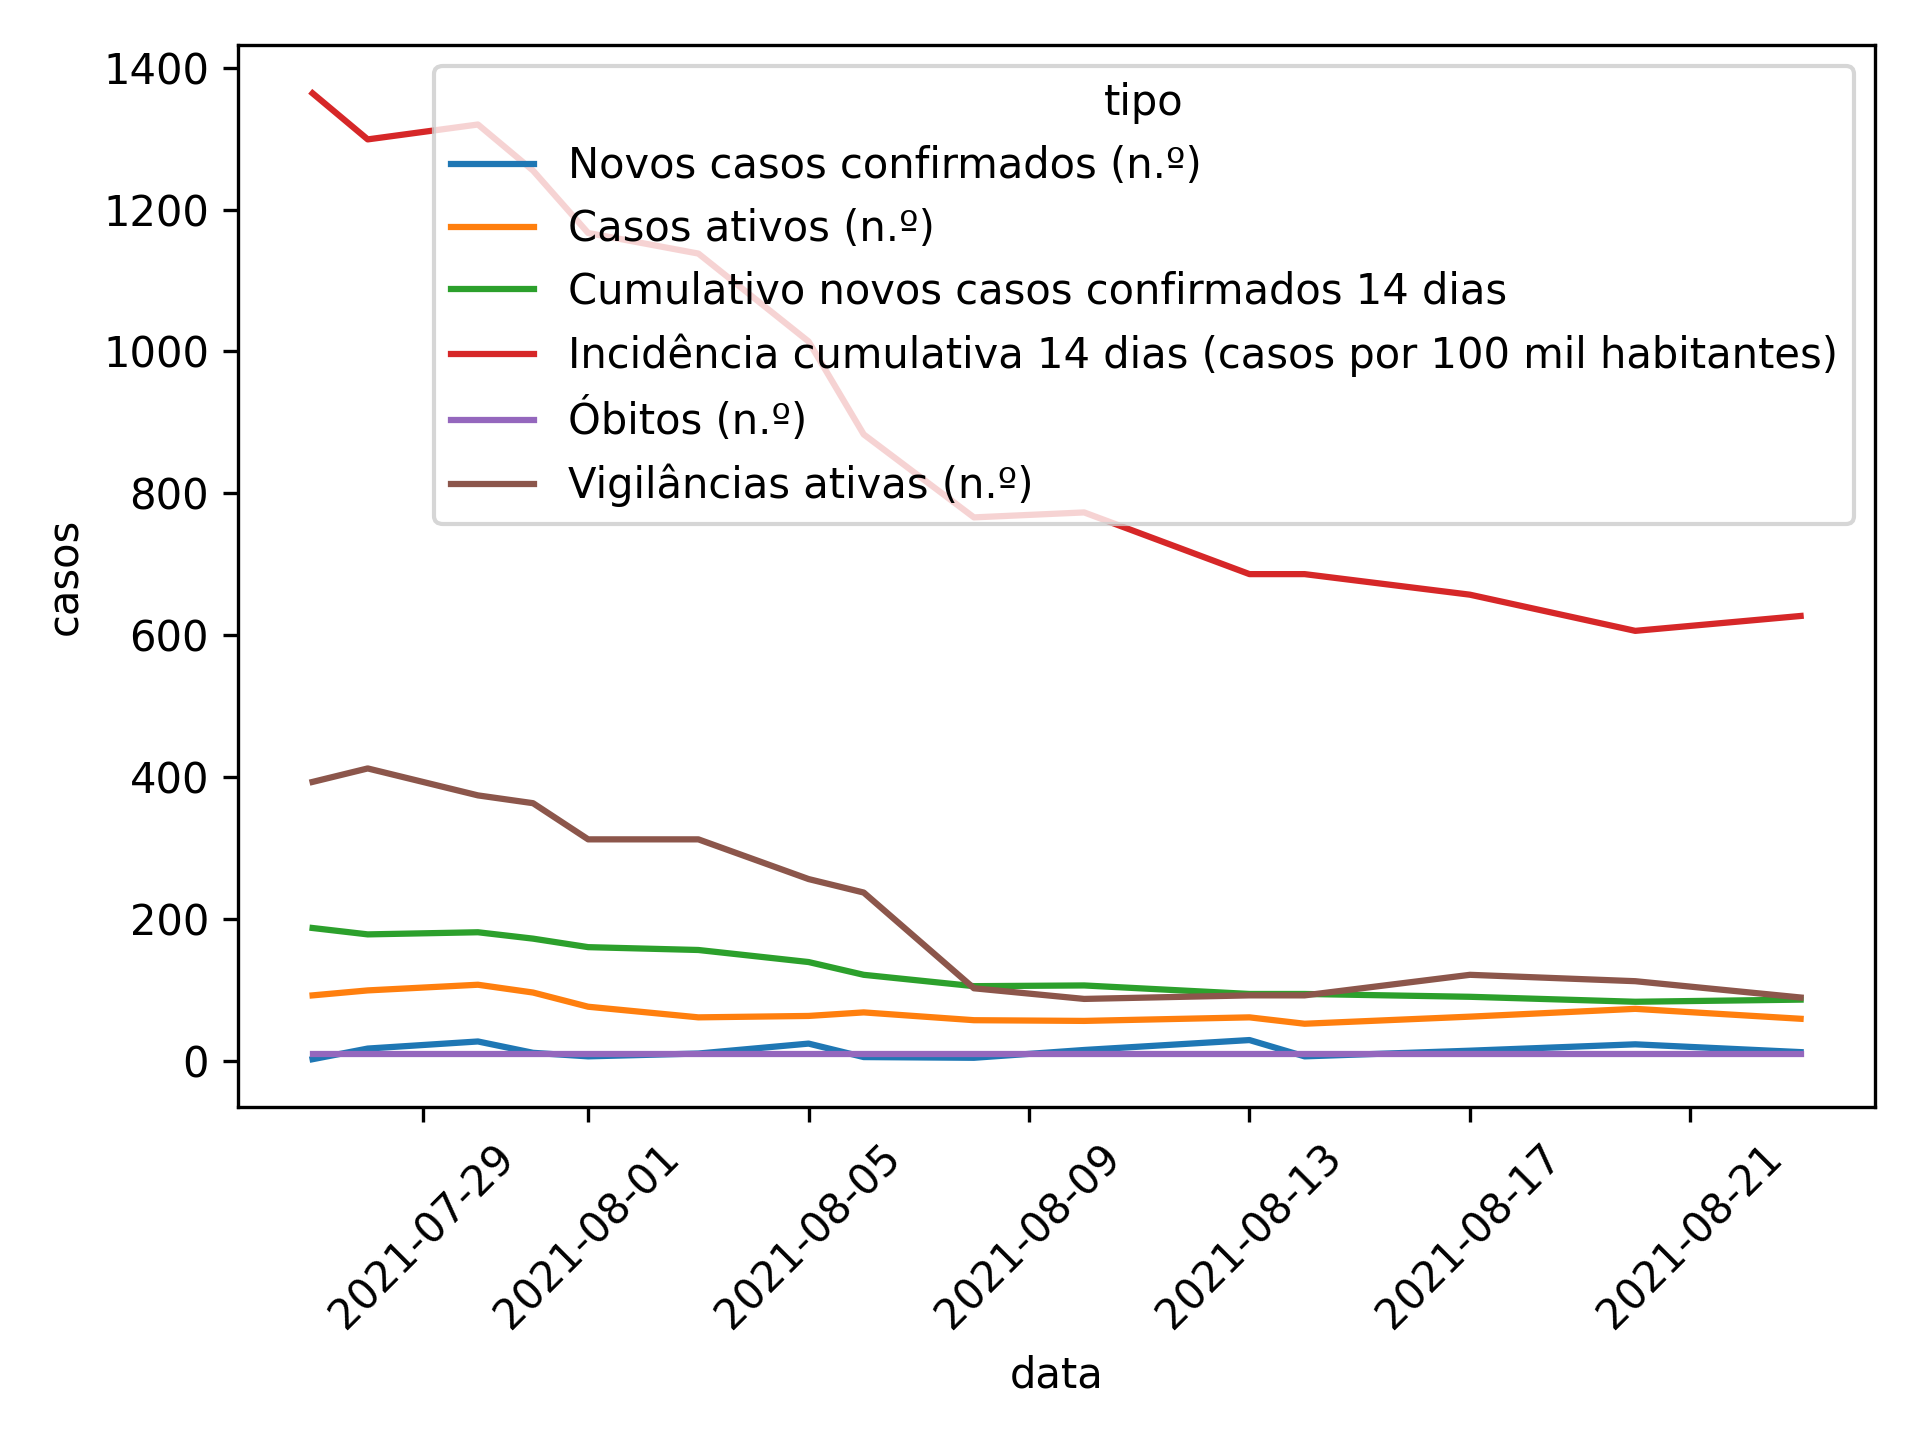
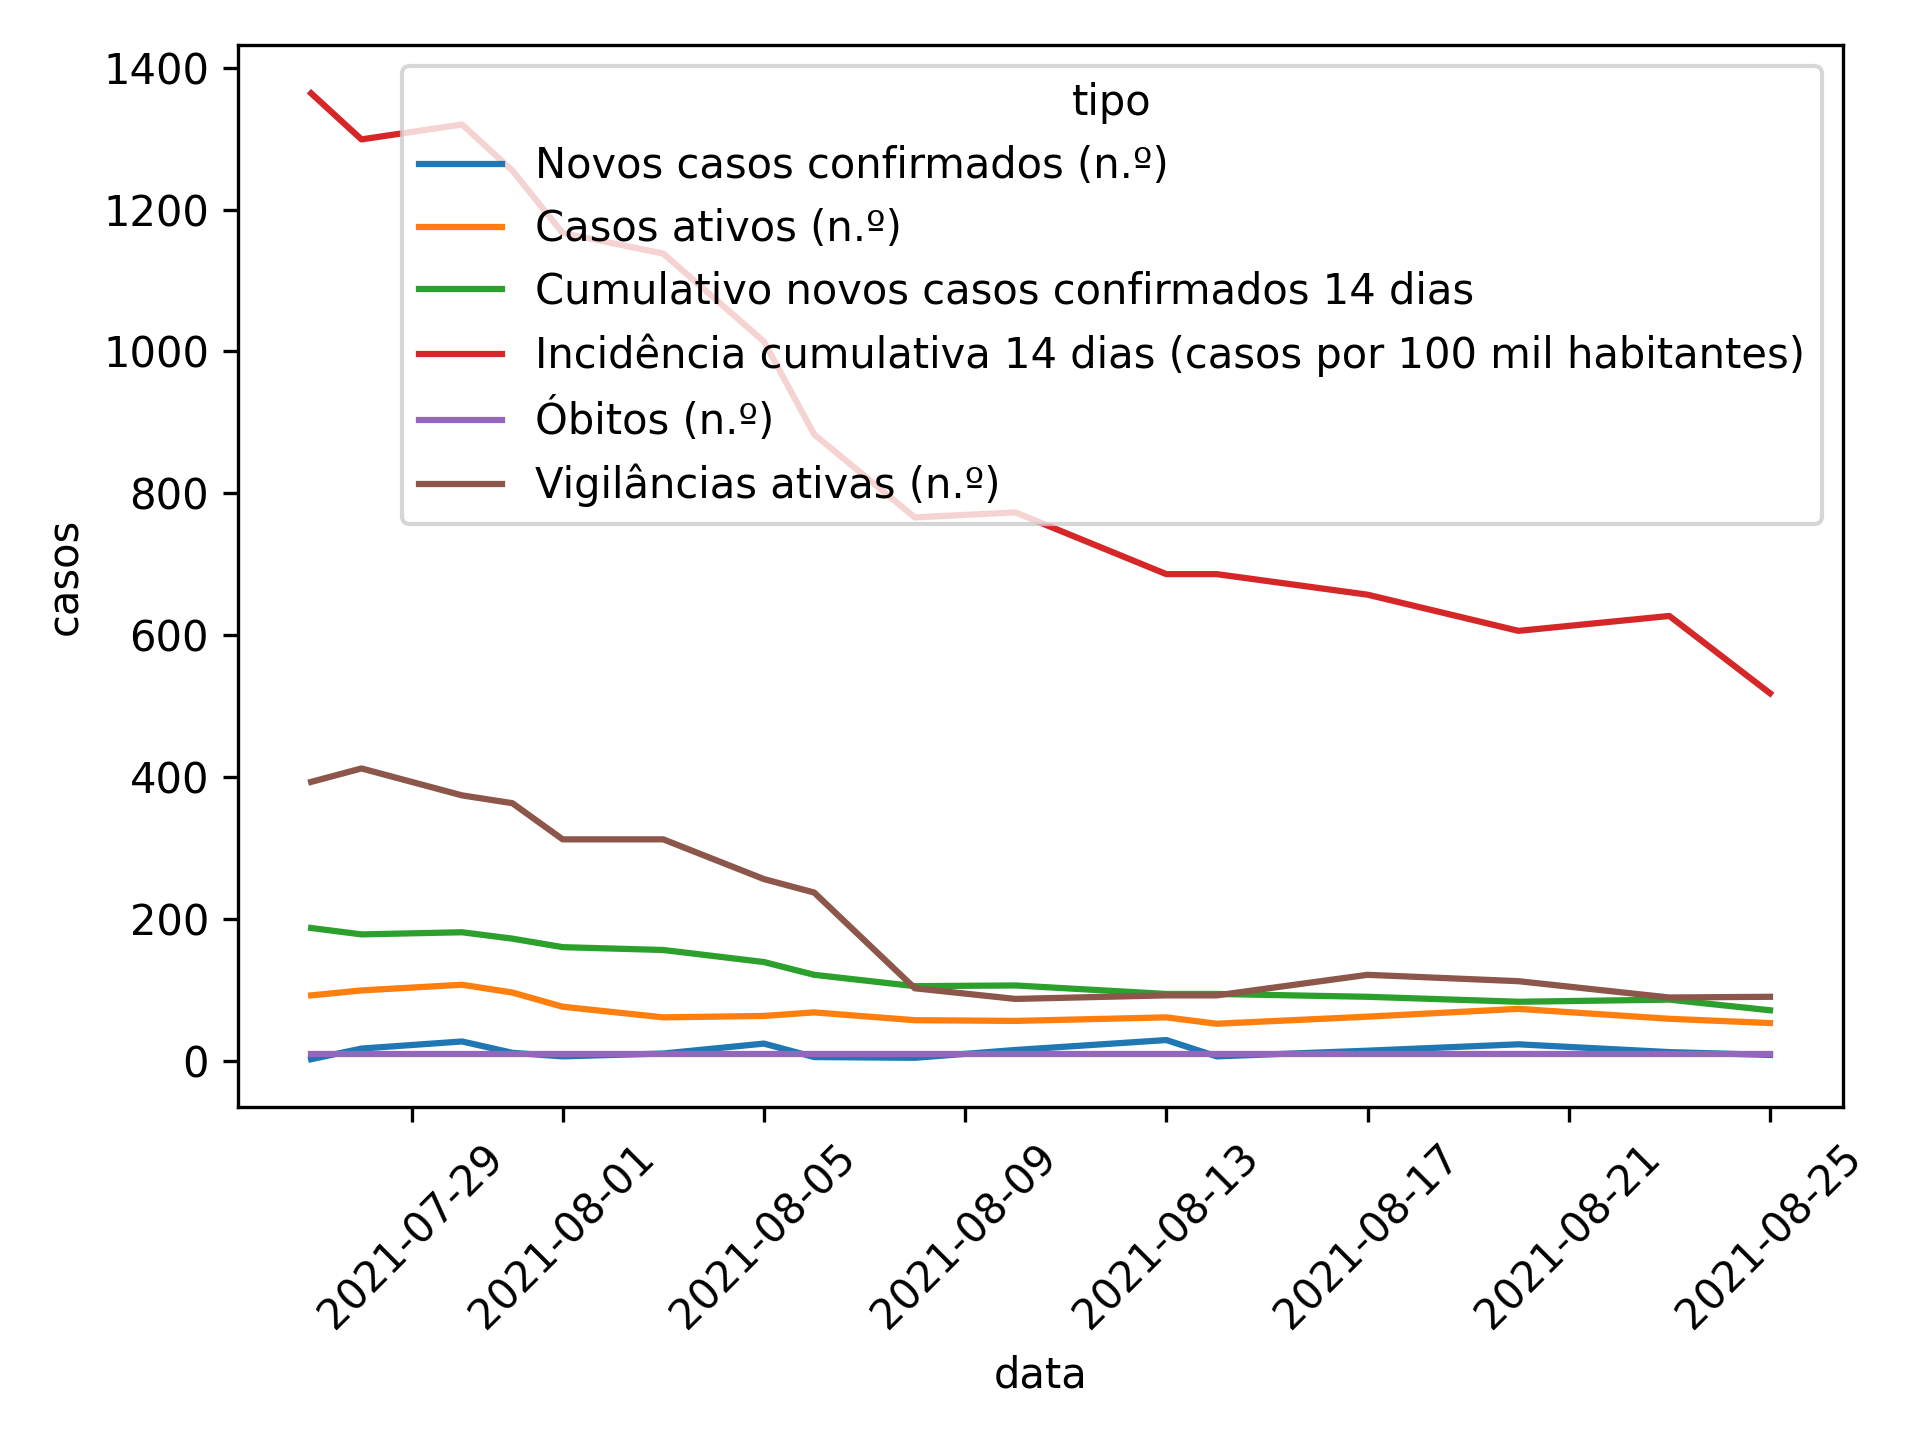
Apply automatic changes

diff --git a/README.md b/README.md
@@ -6,7 +6,6 @@
 
 | data       |   Novos casos confirmados (n.º) |   Casos ativos (n.º) |   Cumulativo novos casos confirmados 14 dias |   Incidência cumulativa 14 dias (casos por 100 mil habitantes) |   Óbitos (n.º) |   Vigilâncias ativas (n.º) |
 |:-----------|--------------------------------:|---------------------:|---------------------------------------------:|---------------------------------------------------------------:|---------------:|---------------------------:|
-| 27-07-2021 |                               2 |                   92 |                                          187 |                                                           1364 |             10 |                        393 |
 | 28-07-2021 |                              17 |                   99 |                                          178 |                                                           1299 |             10 |                        412 |
 | 30-07-2021 |                              27 |                  107 |                                          181 |                                                           1320 |             10 |                        374 |
 | 31-07-2021 |                              11 |                   96 |                                          172 |                                                           1255 |             10 |                        363 |
@@ -21,3 +20,4 @@
 | 17-08-2021 |                              14 |                   62 |                                           90 |                                                            657 |             10 |                        121 |
 | 20-08-2021 |                              23 |                   73 |                                           83 |                                                            606 |             10 |                        112 |
 | 23-08-2021 |                              12 |                   59 |                                           86 |                                                            627 |             10 |                         89 |
+| 25-08-2021 |                               8 |                   53 |                                           71 |                                                            518 |             10 |                         90 |
